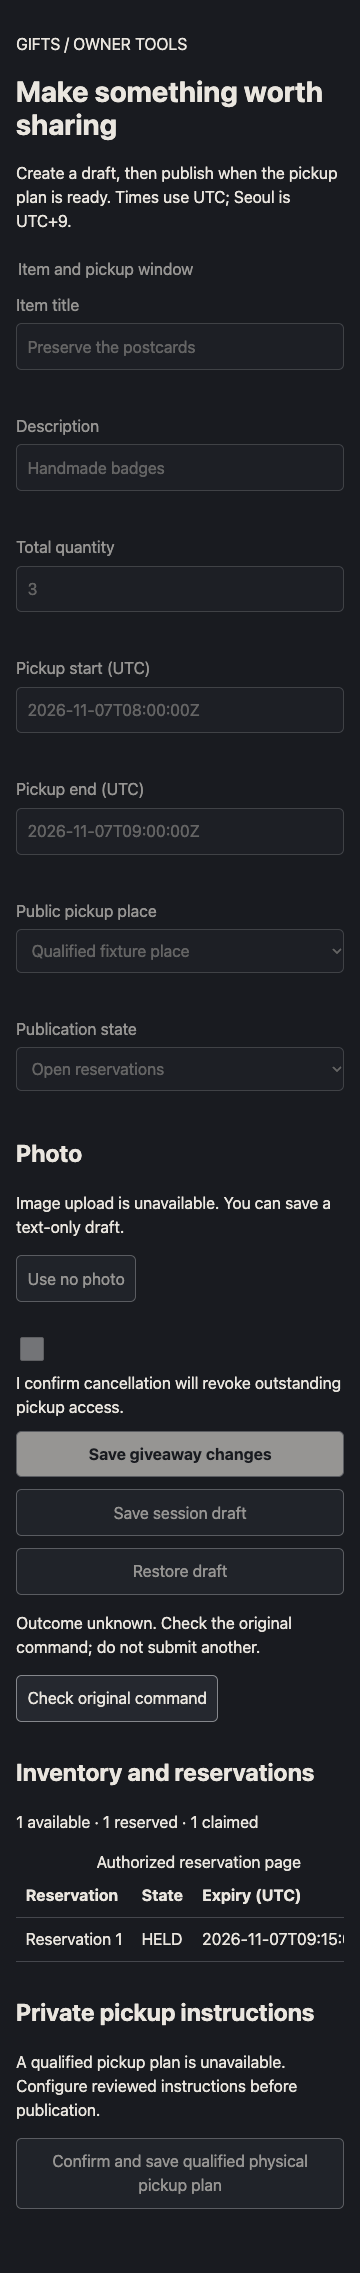
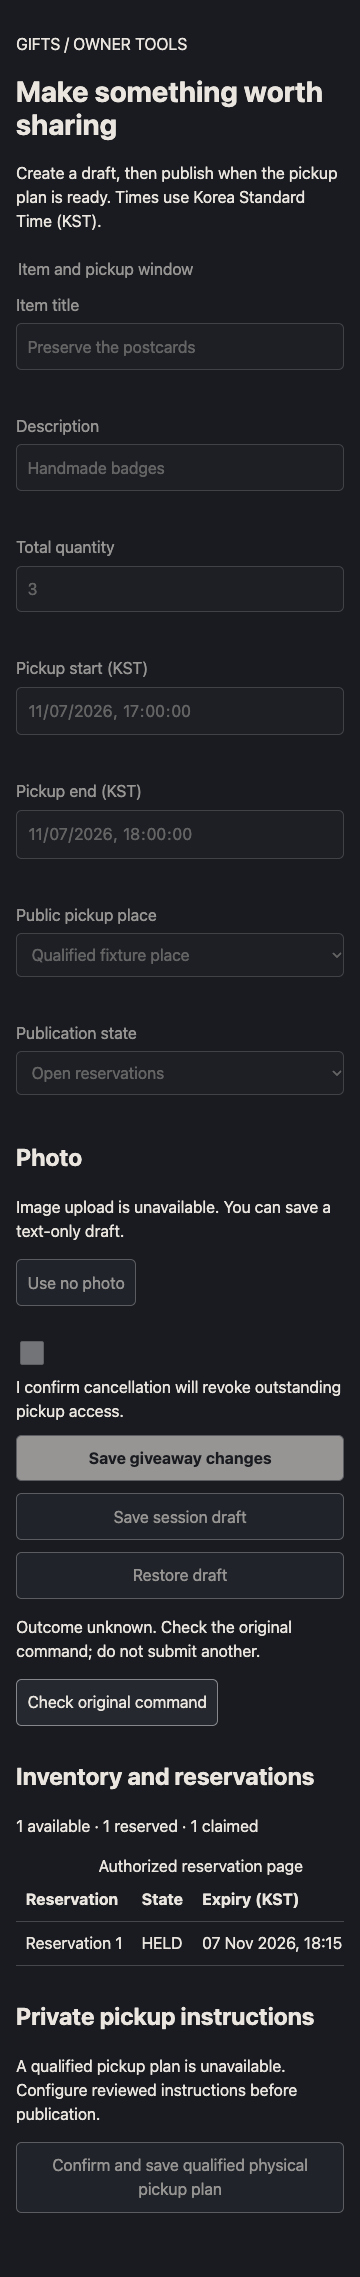
fix(frontend): use KST inputs and displays with UTC transport

diff --git a/frontend/src/features/giveaway-authoring/ui/GiveawayAuthoring.tsx b/frontend/src/features/giveaway-authoring/ui/GiveawayAuthoring.tsx
@@ -1,8 +1,9 @@
 import {useEffect,useSyncExternalStore} from 'react'
-import {useForm} from 'react-hook-form'
+import {Controller,useForm} from 'react-hook-form'
 import {zodResolver} from '@hookform/resolvers/zod'
 import {giftDraftSchema,type GiftDraft} from '../model/contract'
 import type {GiveawayAuthoringController} from '../model/controller'
+import {kstInput,utcFromKst,kstTime} from '../../party-authoring/model/time'
 import './giveaway-authoring.css'
 export function GiveawayAuthoring({controller,editing=false,onReservation}:{controller:GiveawayAuthoringController;editing?:boolean;onReservation?:(id:string)=>void}){
  const s=useSyncExternalStore(controller.subscribe,controller.read,controller.read)
@@ -12,12 +13,13 @@ export function GiveawayAuthoring({controller,editing=false,onReservation}:{cont
 }
 function GiftForm({controller,editing,onReservation}:{controller:GiveawayAuthoringController;editing:boolean;onReservation?:((id:string)=>void)}){
  const s=useSyncExternalStore(controller.subscribe,controller.read,controller.read),u=controller.image()
- const{register,reset,getValues,handleSubmit,formState:{errors}}=useForm<GiftDraft>({resolver:zodResolver(giftDraftSchema),defaultValues:s.draft})
+ const{register,reset,getValues,handleSubmit,control,formState:{errors}}=useForm<GiftDraft>({resolver:zodResolver(giftDraftSchema),defaultValues:s.draft})
  useEffect(()=>{reset(controller.read().draft)},[controller,reset,s.epoch,s.gift?.giveaway_id])
- const locked=!controller.canWrite()||!['idle','failed','conflict'].includes(s.phase),labels={title:'Item title',description:'Description',quantity_total:'Total quantity',pickup_starts_at:'Pickup start (UTC)',pickup_ends_at:'Pickup end (UTC)'}
+ const locked=!controller.canWrite()||!['idle','failed','conflict'].includes(s.phase),labels={title:'Item title',description:'Description',quantity_total:'Total quantity',pickup_starts_at:'Pickup start (KST)',pickup_ends_at:'Pickup end (KST)'}
+ const timeField=(name:'pickup_starts_at'|'pickup_ends_at')=><label>{labels[name]}<Controller name={name} control={control} render={({field})=><input aria-label={labels[name]} type="datetime-local" step="1" value={kstInput(field.value)} onBlur={field.onBlur} ref={field.ref} onChange={e=>{field.onChange(utcFromKst(e.target.value));controller.edit(getValues())}}/>}/>{errors[name]&&<span role="alert">{errors[name].message}</span>}</label>
  const field=(name:keyof typeof labels)=><label key={name}>{labels[name]}<input aria-label={labels[name]} type={name==='quantity_total'?'number':'text'} {...register(name,name==='quantity_total'?{valueAsNumber:true}:{})} aria-invalid={!!errors[name]}/>{errors[name]&&<span role="alert">{errors[name].message}</span>}</label>
- return <section className="giveaway-authoring"><header><p>GIFTS / OWNER TOOLS</p><h1>{editing||s.gift?'Make something worth sharing':'Start a giveaway'}</h1><p>Create a draft, then publish when the pickup plan is ready. Times use UTC; Seoul is UTC+9.</p></header>
- <form noValidate onChange={()=>controller.edit(getValues())} onSubmit={handleSubmit(d=>controller.submit(d))}><fieldset disabled={locked}><legend>Item and pickup window</legend>{field('title')}{field('description')}{field('quantity_total')}{field('pickup_starts_at')}{field('pickup_ends_at')}
+ return <section className="giveaway-authoring"><header><p>GIFTS / OWNER TOOLS</p><h1>{editing||s.gift?'Make something worth sharing':'Start a giveaway'}</h1><p>Create a draft, then publish when the pickup plan is ready. Times use Korea Standard Time (KST).</p></header>
+ <form noValidate onChange={()=>controller.edit(getValues())} onSubmit={handleSubmit(d=>controller.submit(d))}><fieldset disabled={locked}><legend>Item and pickup window</legend>{field('title')}{field('description')}{field('quantity_total')}{timeField('pickup_starts_at')}{timeField('pickup_ends_at')}
  <label>Public pickup place<select aria-label="Public pickup place" {...register('public_place_id')}><option value="">Choose a qualified place</option>{controller.places().map(p=><option value={p.id} key={p.id}>{p.label}</option>)}</select>{errors.public_place_id&&<span role="alert">Choose a qualified place.</span>}</label>
  {s.gift&&<label>Publication state<select aria-label="Publication state" {...register('state')}><option value="DRAFT">Draft</option><option value="OPEN">Open reservations</option><option value="PAUSED">Paused</option><option value="CLOSED">Completed</option><option value="CANCELLED">Cancelled</option></select></label>}</fieldset>
  <section aria-label="Giveaway photo"><h2>Photo</h2>{!controller.hasUpload()?<p>Image upload is unavailable. You can save a text-only draft.</p>:<><label>Choose an image<input aria-label="Choose an image" type="file" accept="image/jpeg,image/png,image/webp" disabled={locked} onChange={e=>{const file=e.target.files?.[0];if(file)void controller.selectImage(file)}}/></label><p>{u?.phase==='ready'?'Qualified image ready':u?.phase==='uncertain'?'Image outcome unknown. Check its status.':u?.phase==='failed'?'Image upload failed. Your form is preserved.':u?.phase==='prepared'?'Image prepared. Upload to attach.':'No new qualified image attached.'}</p><button type="button" disabled={locked||u?.phase!=='prepared'} onClick={()=>void controller.uploadImage()}>Upload image</button>{u?.previewUrl?.startsWith('blob:')&&<img src={u.previewUrl} alt="Selected giveaway preview"/>}{u?.phase==='uncertain'&&<button type="button" onClick={()=>void controller.recoverImage()}>Check image status</button>}</>}
@@ -29,7 +31,7 @@ function GiftForm({controller,editing,onReservation}:{controller:GiveawayAuthori
  {['failed','conflict'].includes(s.phase)&&s.gift&&<button onClick={()=>void controller.loadLatest()}>Read latest stock and settings</button>}
  {s.latest&&<section><h2>Current server version</h2><p>{s.latest.title} · revision {s.latest.revision} · {s.latest.available} available</p><button onClick={()=>controller.keepDraftWithLatest()}>Keep my form with this revision</button></section>}
  {['pending','uncertain'].includes(s.phase)&&<button onClick={()=>void controller.checkStatus()} disabled={s.retryAt>Date.now()}>Check original command</button>}
- {s.management&&<section aria-label="Owner inventory"><h2>Inventory and reservations</h2><p>{s.management.giveaway.available} available · {s.management.reserved_unclaimed} reserved · {s.management.quantity_claimed} claimed</p><div className="giveaway-table-scroll"><table><caption>Authorized reservation page</caption><thead><tr><th>Reservation</th><th>State</th><th>Expiry (UTC)</th>{onReservation&&<th>Pickup</th>}</tr></thead><tbody>{s.management.reservations.map((r,i)=><tr key={r.reservation_id}><td>Reservation {i+1}</td><td>{r.state}</td><td>{r.expires_at}</td>{onReservation&&<td><button onClick={()=>onReservation(r.reservation_id)}>Open pickup {i+1}</button></td>}</tr>)}</tbody></table></div>{s.management.next_cursor&&<button disabled={locked} onClick={()=>void controller.moreReservations()}>More reservations</button>}</section>}
+ {s.management&&<section aria-label="Owner inventory"><h2>Inventory and reservations</h2><p>{s.management.giveaway.available} available · {s.management.reserved_unclaimed} reserved · {s.management.quantity_claimed} claimed</p><div className="giveaway-table-scroll"><table><caption>Authorized reservation page</caption><thead><tr><th>Reservation</th><th>State</th><th>Expiry (KST)</th>{onReservation&&<th>Pickup</th>}</tr></thead><tbody>{s.management.reservations.map((r,i)=><tr key={r.reservation_id}><td>Reservation {i+1}</td><td>{r.state}</td><td>{kstTime(r.expires_at)}</td>{onReservation&&<td><button onClick={()=>onReservation(r.reservation_id)}>Open pickup {i+1}</button></td>}</tr>)}</tbody></table></div>{s.management.next_cursor&&<button disabled={locked} onClick={()=>void controller.moreReservations()}>More reservations</button>}</section>}
  {s.gift&&<section><h2>Private pickup instructions</h2><p>{controller.meeting()?'A current qualified physical pickup plan is available.':'A qualified pickup plan is unavailable. Configure reviewed instructions before publication.'}</p><button disabled={locked||!controller.meeting()} onClick={()=>void controller.setMeeting(true)}>Confirm and save qualified physical pickup plan</button></section>}
  </section>
 }

diff --git a/frontend/src/features/party-authoring/ui/PartyAuthoring.tsx b/frontend/src/features/party-authoring/ui/PartyAuthoring.tsx
@@ -1,8 +1,9 @@
 import { useEffect, useSyncExternalStore } from 'react'
-import { useForm } from 'react-hook-form'
+import { Controller, useForm } from 'react-hook-form'
 import { zodResolver } from '@hookform/resolvers/zod'
 import { partyDraftSchema, type PartyDraft } from '../model/contract'
 import type { PartyAuthoringController } from '../model/controller'
+import {kstInput,utcFromKst,kstTime} from '../model/time'
 import './authoring.css'
 export function PartyAuthoring({controller,editing=false}:{controller:PartyAuthoringController;editing?:boolean}) {
   const s=useSyncExternalStore(controller.subscribe,controller.read,controller.read)
@@ -12,15 +13,16 @@ export function PartyAuthoring({controller,editing=false}:{controller:PartyAutho
 }
 function PartyForm({controller,editing}:{controller:PartyAuthoringController;editing:boolean}) {
   const s=useSyncExternalStore(controller.subscribe,controller.read,controller.read)
-  const {register,handleSubmit,reset,getValues,formState:{errors}}=useForm<PartyDraft>({resolver:zodResolver(partyDraftSchema),defaultValues:s.draft})
+  const {register,handleSubmit,reset,getValues,control,formState:{errors}}=useForm<PartyDraft>({resolver:zodResolver(partyDraftSchema),defaultValues:s.draft})
   useEffect(()=>{reset(controller.read().draft)},[controller,reset,s.epoch,s.party?.revision])
   const locked=['loading','sending','uncertain','pending','checking','reconciling','succeeded'].includes(s.phase)
-  const labels:Record<keyof PartyDraft,string>={title:'Party title',description:'Introduction',ticket_section:'Ticket section',capacity:'Capacity',meeting_starts_at:'Start time (UTC)',meeting_ends_at:'End time (UTC)',requirements:'Requirements',public_place_id:'Public meeting place',state:'Party state'}
+  const labels:Record<keyof PartyDraft,string>={title:'Party title',description:'Introduction',ticket_section:'Ticket section',capacity:'Capacity',meeting_starts_at:'Start time (KST)',meeting_ends_at:'End time (KST)',requirements:'Requirements',public_place_id:'Public meeting place',state:'Party state'}
+  const timeField=(name:'meeting_starts_at'|'meeting_ends_at')=><label>{labels[name]}<Controller name={name} control={control} render={({field})=><input aria-label={labels[name]} type="datetime-local" step="1" value={kstInput(field.value)} onBlur={field.onBlur} ref={field.ref} onChange={e=>{field.onChange(utcFromKst(e.target.value));controller.edit(getValues())}}/>}/>{errors[name]&&<span role="alert">{errors[name].message}</span>}</label>
   const field=(name:keyof PartyDraft,type='text')=><label key={name} htmlFor={`party-${name}`}>{labels[name]}<input id={`party-${name}`} type={type} aria-label={labels[name]} {...register(name,type==='number'?{valueAsNumber:true}:{})} aria-invalid={!!errors[name]} aria-describedby={errors[name]?`party-error-${name}`:undefined}/>{errors[name]&&<span id={`party-error-${name}`} role="alert">{errors[name].message}</span>}</label>
   return <section className="party-authoring" aria-labelledby="party-authoring-title"><header><p>MEET / YOUR PARTY</p><h1 id="party-authoring-title">{editing?'Edit your party':'Bring your people together'}</h1><p>Set a plan, leave room for others, and check the current venue guidance.</p></header>
-    <p>Times use UTC. Seoul is UTC+9. A meeting place does not confirm physical arrival.</p>
+    <p>Times use Korea Standard Time (KST). A meeting place does not confirm physical arrival.</p>
     <form noValidate onChange={()=>controller.edit(getValues())} onSubmit={handleSubmit(draft=>controller.submit(draft))}><fieldset disabled={locked}><legend>Party details</legend>
-      {field('title')}{field('ticket_section')}{field('capacity','number')}{field('description')}{field('meeting_starts_at')}{field('meeting_ends_at')}
+      {field('title')}{field('ticket_section')}{field('capacity','number')}{field('description')}{timeField('meeting_starts_at')}{timeField('meeting_ends_at')}
       <label htmlFor="party-place">Public meeting place<select id="party-place" {...register('public_place_id')} aria-invalid={!!errors.public_place_id}><option value="">Choose a qualified place</option>{controller.places().map(p=><option key={p.id} value={p.id}>{p.label}</option>)}</select>{errors.public_place_id&&<span role="alert">Choose an available place.</span>}</label>
       {!controller.places().length&&<p>No qualified places are available. Publishing is unavailable.</p>}{field('requirements')}
       {editing&&<label htmlFor="party-state">Party state<select id="party-state" {...register('state')}><option value="OPEN">Open</option><option value="CLOSED">Closed to applications</option><option value="COMPLETED">Completed</option></select></label>}
@@ -28,6 +30,6 @@ function PartyForm({controller,editing}:{controller:PartyAuthoringController;edi
     <div role="status" aria-live="polite"><p>{s.message}</p></div>
     {['uncertain','pending','reconciling'].includes(s.phase)&&<button type="button" disabled={s.retryAt>Date.now()} onClick={()=>void controller.checkStatus()}>Check original command</button>}
     {editing&&['conflict','failed'].includes(s.phase)&&<button type="button" onClick={()=>void controller.loadLatest()}>Read latest party</button>}
-    {s.latest&&<section aria-label="Current server version"><h2>Current server version</h2><p>{s.latest.title} · revision {s.latest.revision} · {s.latest.member_count} of {s.latest.capacity} members</p><p>Meeting revision {s.latest.meeting_revision}: {s.latest.meeting_starts_at} to {s.latest.meeting_ends_at}</p><button type="button" onClick={()=>controller.keepDraftWithLatest()}>Keep my draft with this revision</button></section>}
+    {s.latest&&<section aria-label="Current server version"><h2>Current server version</h2><p>{s.latest.title} · revision {s.latest.revision} · {s.latest.member_count} of {s.latest.capacity} members</p><p>Meeting revision {s.latest.meeting_revision}: {kstTime(s.latest.meeting_starts_at)} to {kstTime(s.latest.meeting_ends_at)}</p><button type="button" onClick={()=>controller.keepDraftWithLatest()}>Keep my draft with this revision</button></section>}
   </section>
 }

diff --git a/frontend/src/features/party-management/ui/PartyManagement.tsx b/frontend/src/features/party-management/ui/PartyManagement.tsx
@@ -1,5 +1,6 @@
 import { useEffect, useState, useSyncExternalStore } from 'react'
 import type { PartyManagementController, RallyState } from '../model/controller'
+import {kstTime} from '../../party-authoring/model/time'
 import './management.css'
 export function PartyManagement({controller}:{controller:PartyManagementController}){
  const s=useSyncExternalStore(controller.subscribe,controller.read,controller.read)
@@ -8,7 +9,7 @@ export function PartyManagement({controller}:{controller:PartyManagementControll
  if(s.phase==='denied')return <section className="party-management"><h1>Party access unavailable</h1><p>{s.message}</p></section>
  return <section className="party-management"><header><p>MEET / PARTY TOOLS</p><h1>{s.party?.title??'Your party'}</h1></header><p role="status" aria-live="polite">{s.message}</p>
   <button disabled={locked&&s.phase!=='idle'||s.retryAt>Date.now()} onClick={()=>void controller.load()}>Read current party</button>
-  {s.party&&<><p>{s.party.state} · {s.party.member_count} of {s.party.capacity} members · revision {s.party.revision}</p><section aria-label="Current meeting"><h2>Current meeting</h2><p>Meeting revision {s.party.meeting_revision}. Previous meeting cards are superseded.</p><p>{s.party.meeting_starts_at} to {s.party.meeting_ends_at} (UTC)</p><p>Use current authorized meeting details. Virtual movement never confirms physical arrival.</p></section></>}
+  {s.party&&<><p>{s.party.state} · {s.party.member_count} of {s.party.capacity} members · revision {s.party.revision}</p><section aria-label="Current meeting"><h2>Current meeting</h2><p>Meeting revision {s.party.meeting_revision}. Previous meeting cards are superseded.</p><p>{kstTime(s.party.meeting_starts_at)} to {kstTime(s.party.meeting_ends_at)}</p><p>Use current authorized meeting details. Virtual movement never confirms physical arrival.</p></section></>}
   {s.party&&!owner&&<p>Owner tools are unavailable for this account.</p>}
   {owner&&<section aria-label="Party applications"><h2>Applications</h2>{!s.applications?<p>Read the current application list.</p>:!s.applications.items.length?<p>No applications on this page.</p>:<ul>{s.applications.items.map(a=><li key={a.application_id}><h3>{a.applicant.display_name}</h3><p>{a.note}</p><p>{a.state}</p>{a.state==='PENDING'&&<div className="party-management-actions"><button disabled={locked||s.party?.state!=='OPEN'||s.party.member_count>=s.party.capacity} onClick={()=>void controller.decide(a.application_id,'APPROVED')}>Approve {a.applicant.display_name}</button><button disabled={locked} onClick={()=>void controller.decide(a.application_id,'REJECTED')}>Reject {a.applicant.display_name}</button></div>}</li>)}</ul>}{s.applications?.next_cursor&&<button disabled={locked} onClick={()=>void controller.more('applications')}>More applications</button>}</section>}
   <section aria-label="Party members"><h2>Members</h2>{s.members?<ul>{s.members.items.map(m=><li key={m.user_id}><p>{m.user_id===s.party?.owner.user_id?'Party owner':m.user_id} · {m.state}</p>{owner&&m.role!=='OWNER'&&m.state==='ACTIVE'&&<button disabled={locked} onClick={()=>controller.confirm('remove',m.user_id)}>Remove member {m.user_id}</button>}</li>)}</ul>:<p>Member list unavailable.</p>}{s.members?.next_cursor&&<button disabled={locked} onClick={()=>void controller.more('members')}>More members</button>}</section>
@@ -24,7 +25,7 @@ export function PartyRally({controller}:{controller:PartyManagementController}){
  return <section className="party-management"><h1>Rendezvous</h1><p>Meeting revision {s.party?.meeting_revision??'unavailable'}. Previous reports do not prove arrival at a changed meeting.</p>
   {!authority?<p>Current authorized physical meeting details are unavailable or expired.</p>:<p>{authority.description}</p>}
   <button onClick={()=>void controller.loadRally()} disabled={!authority}>Read current rally</button>
-  {s.rally&&<ul>{s.rally.entries.map(e=><li key={e.user_id}>{e.user_id}: {e.meeting_revision===s.rally!.meeting_revision?e.state.replaceAll('_',' '):'STALE · previous meeting report'} · self-reported {e.self_reported_at}</li>)}</ul>}
+  {s.rally&&<ul>{s.rally.entries.map(e=><li key={e.user_id}>{e.user_id}: {e.meeting_revision===s.rally!.meeting_revision?e.state.replaceAll('_',' '):'STALE · previous meeting report'} · self-reported {kstTime(e.self_reported_at)}</li>)}</ul>}
   <label><input type="checkbox" checked={ack} disabled={!enabled} onChange={e=>setAck(e.target.checked)}/>I am explicitly reporting my physical meeting status.</label>
   <div className="party-management-actions">{(['ON_MY_WAY','HERE','MET','NEED_HELP','LEFT'] as RallyState[]).map(v=><button key={v} disabled={!enabled||!ack} onClick={()=>{setAck(false);void controller.report(v,true)}}>{v.replaceAll('_',' ')}</button>)}</div><p role="status">{s.message}</p>
  </section>

diff --git a/frontend/src/features/party-authoring/model/time.ts b/frontend/src/features/party-authoring/model/time.ts
@@ -1,0 +1,6 @@
+import {utc} from './contract'
+/** KST has a fixed UTC+09 offset. Wire values remain strict UTC RFC3339. */
+export function kstInput(value:string):string{if(!utc(value))return'';try{return new Date(Date.parse(value)+9*60*60*1000).toISOString().slice(0,19)}catch{return''}}
+export function utcFromKst(value:string):string{if(!/^\d{4}-\d\d-\d\dT\d\d:\d\d(?::\d\d)?$/.test(value))return'';const local=`${value.length===16?`${value}:00`:value}Z`;if(!utc(local))return'';try{return new Date(Date.parse(local)-9*60*60*1000).toISOString()}catch{return''}}
+const display=new Intl.DateTimeFormat('en-GB',{timeZone:'Asia/Seoul',year:'numeric',month:'short',day:'2-digit',hour:'2-digit',minute:'2-digit',hourCycle:'h23'})
+export function kstTime(value:string):string{return utc(value)?`${display.format(new Date(value))} KST`:'Time unavailable'}

diff --git a/frontend/src/features/party-authoring/__tests__/time.test.ts b/frontend/src/features/party-authoring/__tests__/time.test.ts
@@ -1,0 +1,4 @@
+import{expect,it}from'vitest'
+import{kstInput,utcFromKst,kstTime}from'../model/time'
+it('maps KST date rollover to UTC and displays English KST',()=>{expect(utcFromKst('2026-11-07T01:30')).toBe('2026-11-06T16:30:00.000Z');expect(kstInput('2026-11-06T16:30:00Z')).toBe('2026-11-07T01:30:00');expect(kstTime('2026-11-06T16:30:00Z')).toContain('07 Nov 2026');expect(kstTime('2026-11-06T16:30:00Z')).toContain('01:30 KST')})
+it('rejects impossible local dates and invalid wire values',()=>{expect(utcFromKst('2026-02-30T17:00')).toBe('');expect(utcFromKst('2026-11-07T25:00')).toBe('');expect(kstInput('2026-02-30T01:00:00Z')).toBe('');expect(kstTime('invalid')).toBe('Time unavailable')})

diff --git a/docs/mcr/frontend/community-authoring.md b/docs/mcr/frontend/community-authoring.md
@@ -234,3 +234,16 @@ were corrected before the passing checks. Backend/public upload and owner routes
 actual BE24/FE04 upload integration, FE20/live physical instruction projection,
 shell routing, real stock races, devices and IN02 remain **NOT_RUN**. FE26 remains
 active and is the next bounded increment.
+
+### KST display correction (supersedes earlier explicit-UTC UI wording)
+
+Specification §7.4 requires UTC transport and KST display. The three delivered
+features now use KST date/time inputs and English KST meeting/inventory labels.
+Owned `party-authoring/model/time.ts` converts strict KST local input to UTC
+RFC3339 and formats server UTC in Asia/Seoul; no backend contract is changed.
+Two regressions cover date rollover and impossible calendar input. Native
+receipts/screenshots/source hashes for all three features were regenerated and
+pass at 360/390/430/1280; typed date controls use normalized minute input in the
+browser harness. Combined feature/discovery/domain-consumer checks **213/213**,
+strict build/typecheck, four-feature Oxlint and source-origin/boundary checks all
+exit **0**. FE26's separately staged consumer uses the same owned helper.
